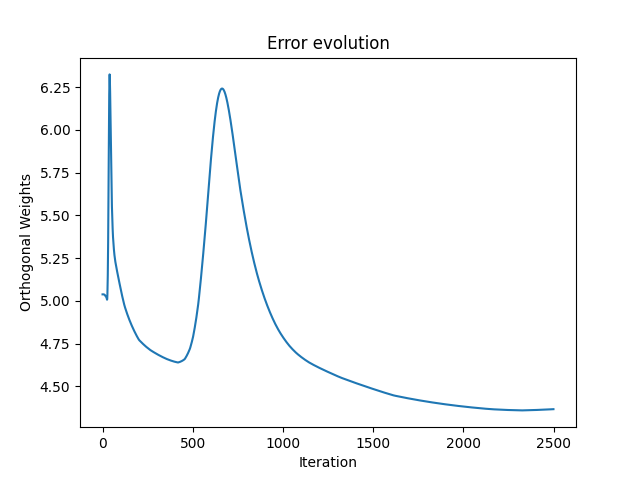
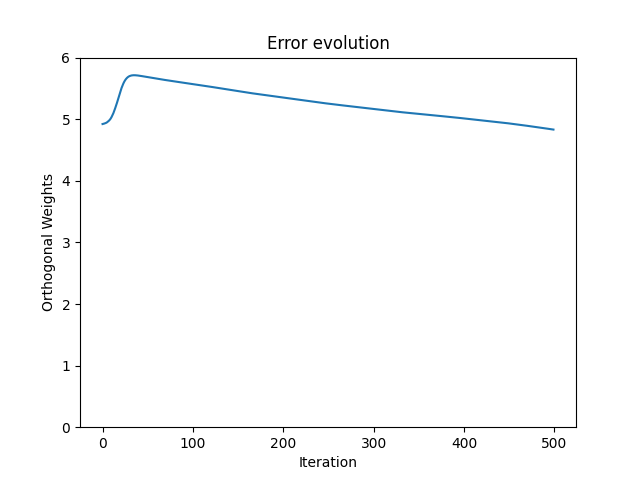
testing

diff --git a/main.py b/main.py
@@ -7,13 +7,12 @@ import FileFuncions as ff
 data = np.genfromtxt("data/tp2_training_dataset.csv", delimiter=",", dtype=float)[:, :]
 #data = np.genfromtxt("data/home_data.csv", delimiter=",", dtype=float)[1:500,2:]
 plot_name_template = "results/results_#exp_name#_plot_#run_number#.png"
-exp_name = "tp2"
+exp_name = "tp2-sanger"
 
 norm = np.linalg.norm(data)
 data = data/norm
-
-S = [851, 20, 10, 9]
-model = Model(S, maxIter=2500, sanger=True, learningRate=0.2)
+S = [851, 80, 60, 9]
+model = Model(S, maxIter=500, sanger=True, learningRate=0.3)
 
 iters, o, learning = model.train(data)
 exp_info = [model.S, model.learningRate, model.sanger, iters, model.maxIter, o]
@@ -24,5 +23,6 @@ plot_name = plot_name.replace("#run_number#", run_number)
 plt.plot(learning)
 plt.title("Error evolution")
 plt.ylabel("Orthogonal Weights")
+plt.ylim((0, 6))
 plt.xlabel("Iteration")
 plt.savefig(plot_name)
